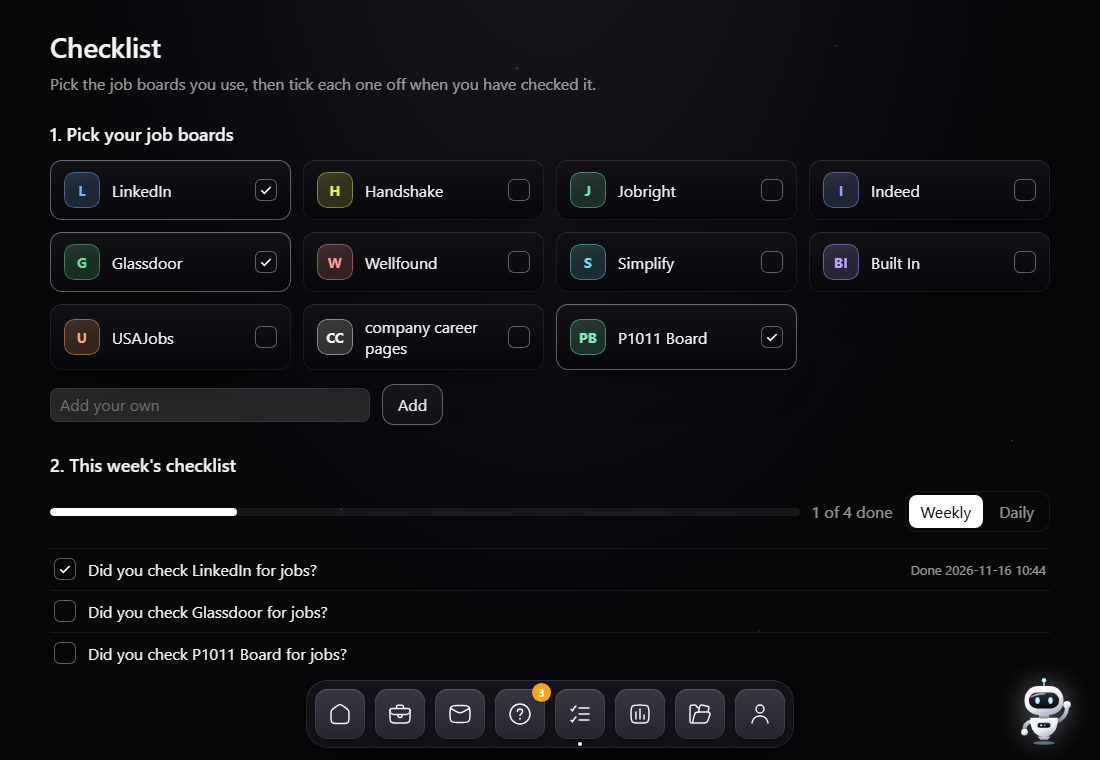
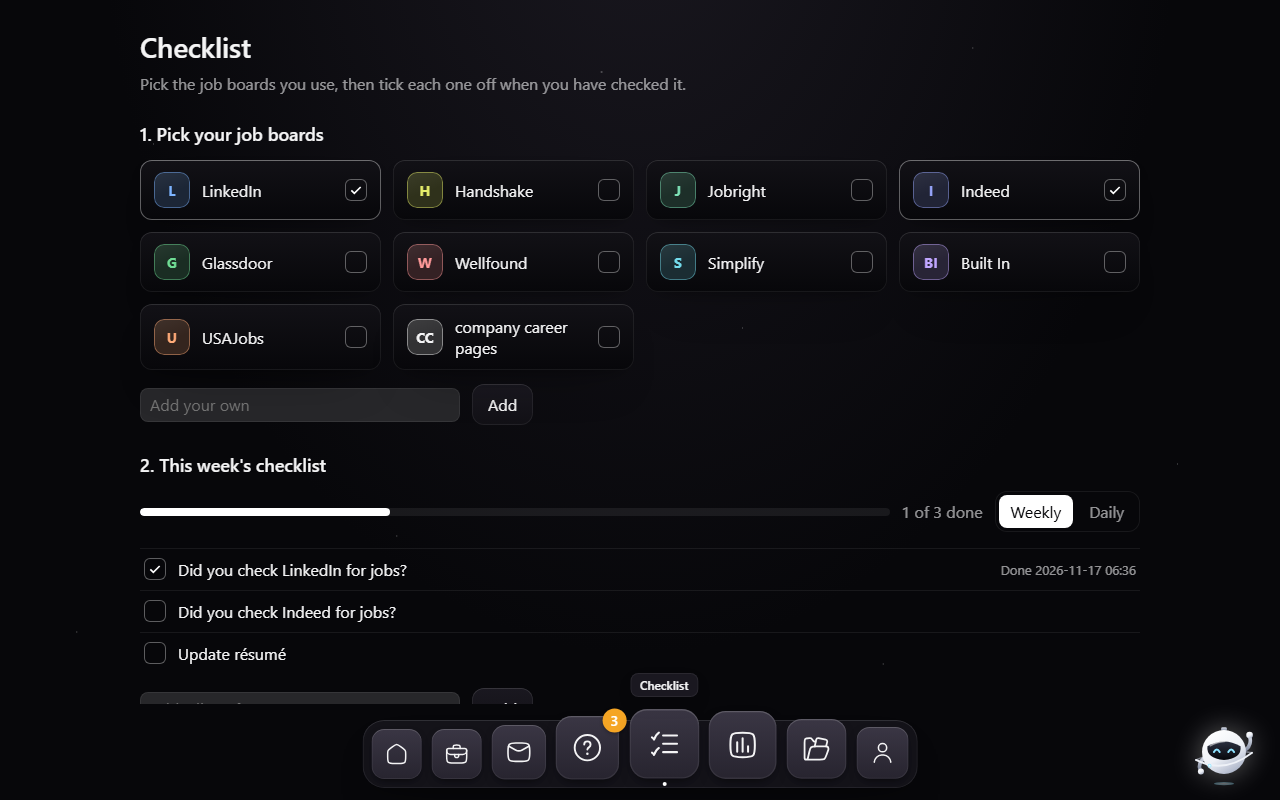
Refresh JobbyMail screenshots (8-sprite gallery with Orb in use, fixed checklist and main pages) and add a Berkeley Lab section on the recent XCache work (blend model, foundation-model nulls, pre-registered selection)

diff --git a/pages.py b/pages.py
@@ -2239,10 +2239,10 @@ local connection on <code>127.0.0.1</code> that requires a random token, and it 
 {tiles([("Onboarding", "A five-step stepper collects a name, a job field and target roles, connects the mailbox with a test button, and asks how far back to read."),
         ("One place for the password", "Exactly one route accepts the app password and hands it to the Windows credential store. It never reaches the database, a response or a log."),
         ("Delete everything", "A single action empties the database, the trained model and the stored credential, after the user types a word to confirm."),
-        ("Jobby", "The mascot is one of 14 original vector sprites, each a glossy white space robot that waves; swapping the chosen one is a one-line change.")])}
+        ("Jobby", "The mascot is one of eight original vector sprites, each a glossy white space robot that waves; the chosen one (Orb) is a one-line change.")])}
 {image(rel, "jm-gallery.png",
-       " The 14 Jobby sprites, each at mascot, profile-picture and icon size.", label="Screenshot",
-       alt="A grid of 14 white robot mascot designs on black backgrounds")}"""
+       " The eight Jobby designs, each at mascot, profile-picture and icon size; Orb is in use.", label="Screenshot",
+       alt="A grid of eight white robot mascot designs on black backgrounds")}"""
 
     build = f"""
 <p>The app was built in 15 phases by a loop of four roles: an architect that wrote each phase's plan and its checks,
@@ -2621,6 +2621,26 @@ model on each with the same chronological split, and repeated the lookback-by-ho
 The next step is a measurable seasonality or regime signal that says in advance whether traffic will be calm or erratic,
 and fixing patch length and stride for each lookback.</p>"""
 
+    where = """
+<p>The first model answered one question: can a Transformer beat persistence? The work since then asked a harder
+one. What is the best honest next-day forecast, and does anything beyond a single PatchTST actually add to it?</p>
+<h3>A small blend, chosen the hard way</h3>
+<p>The reported one-day model is a fixed three-part blend: an <strong>hourly-input PatchTST</strong> that reads two
+weeks of hourly traffic and predicts the next day's total, the original daily PatchTST, and a shallow decision tree
+on the daily features. The hourly signal is where most of the extra accuracy came from. Across the rolling-origin
+folds it averages about <strong>14.5 TB/day of error against persistence's 17.6</strong>, roughly 17% lower, and it
+wins on most of the held-out folds.</p>
+<h3>What didn't help</h3>
+<p>Plenty, and each is written up as a null rather than dropped quietly. Zero-shot time-series foundation models
+(Amazon's <strong>Chronos-2</strong> and <strong>Chronos-Bolt</strong>) made the same mistakes the blend already
+made and were worse on busy days, so they earned zero weight. Heavier networks (NHITS, TiDE, an LSTM, TimeXer) and
+gradient-boosted trees added nothing over the blend either.</p>
+<h3>Rules fixed before the data was read</h3>
+<p>Every candidate is pre-registered before a single model is fit. Models are chosen on rolling-origin folds with
+leave-one-fold-out; a separate block of earlier days can only veto a choice, never make one; and the test window is
+read only after the choice is locked to a hash. The model's one real weakness is stated plainly, that it
+under-forecasts the rare record-high days, and the whole pipeline is guarded by 566 automated checks.</p>"""
+
     main_html = (
         panel("overview", "Overview", overview, num="01")
         + panel("patchtst", "What PatchTST is &amp; how it works", how, num="02")
@@ -2629,12 +2649,14 @@ and fixing patch length and stride for each lookback.</p>"""
         + panel("tuning", "Choosing how much history to use", tuning, num="05")
         + panel("peaks", "Testing why peaks are missed", peaks, num="06")
         + panel("regimes", "Calm vs. erratic traffic", regimes, num="07")
+        + panel("where-next", "Where it went next", where, num="08")
         + pager(rel, ("projects/uc-campus-rent/", "UC Campus Rent"), ("experience/cbu-research/", "CBU Research")))  # DockWatch hidden
 
     rail = (
         panel("toc-lb", "On this page", toc([("overview", "Overview"), ("patchtst", "How PatchTST works"), ("problem", "Problem &amp; data"),
                                              ("model", "Baseline"), ("tuning", "Lookback &amp; robustness"),
-                                             ("peaks", "Peak hypotheses"), ("regimes", "Traffic regimes")]),
+                                             ("peaks", "Peak hypotheses"), ("regimes", "Traffic regimes"),
+                                             ("where-next", "Where it went next")]),
               body_cls="panel-body tight")
         + panel("spec-lb", "Spec sheet", spec([("Org", "Berkeley Lab · ESnet"), ("Role", "DS &amp; ML Research Intern"),
                                                 ("Program", "Data Science Discovery"), ("Dates", "Sep 2026 – present"),
